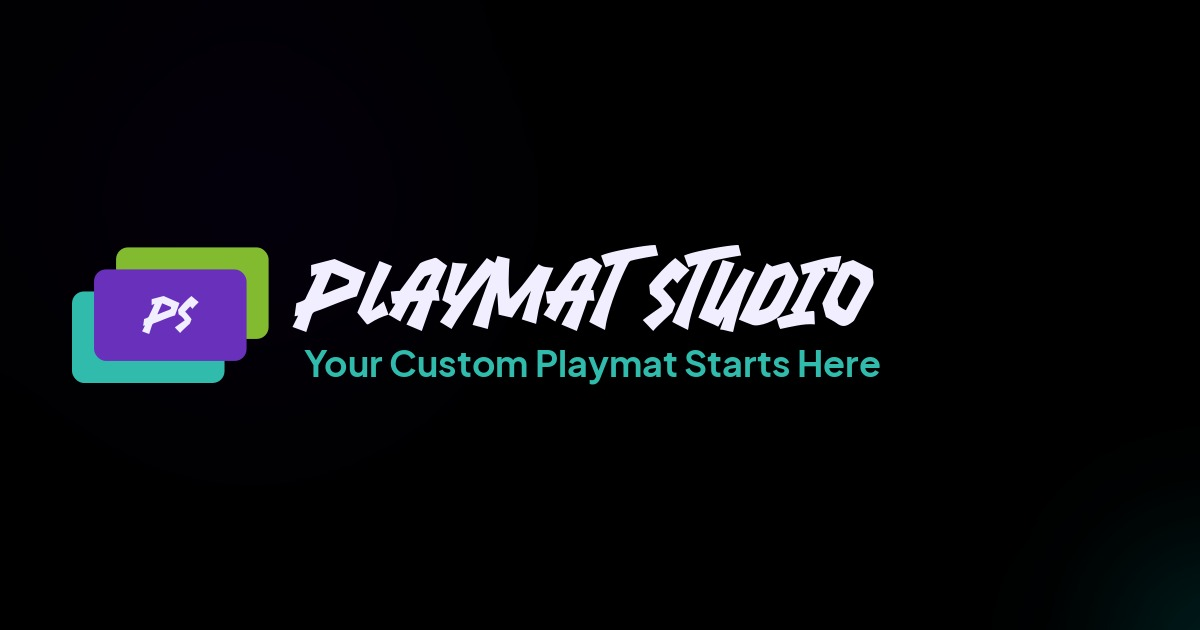
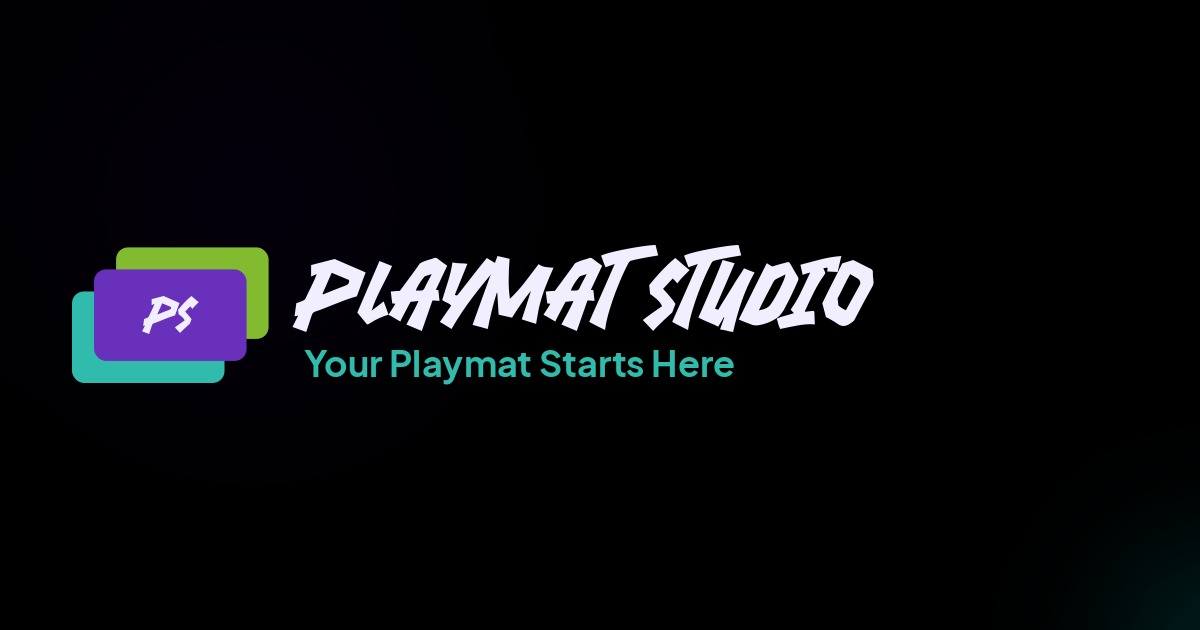
Update slogan to "Your Playmat Starts Here" in hero and og-preview
https://claude.ai/code/session_01K7Nx38XyDJbewPShFeLc3w

Changed region(s): [[0.3083, 0.5429, 0.74, 0.6032]]

diff --git a/index.html b/index.html
@@ -6,7 +6,7 @@
 -->
 <html lang="en">
 	<head>
-		<title>Playmat Studio &mdash; Your Custom Playmat Starts Here</title>
+		<title>Playmat Studio &mdash; Your Playmat Starts Here</title>
 		<meta charset="utf-8" />
 		<meta http-equiv="Cache-Control" content="no-cache, no-store, must-revalidate" />
 		<meta http-equiv="Pragma" content="no-cache" />
@@ -20,11 +20,11 @@
 		<!-- Open Graph / Twitter Card -->
 		<meta property="og:type" content="website" />
 		<meta property="og:url" content="https://playmatstudio.com/" />
-		<meta property="og:title" content="Playmat Studio &mdash; Your Custom Playmat Starts Here" />
+		<meta property="og:title" content="Playmat Studio &mdash; Your Playmat Starts Here" />
 		<meta property="og:description" content="Free browser-based tools to design, enhance, and download print-ready game mat artwork. No installs. No account. No cost." />
 		<meta property="og:image" content="https://playmatstudio.com/images/og-preview.jpg" />
 		<meta name="twitter:card" content="summary_large_image" />
-		<meta name="twitter:title" content="Playmat Studio &mdash; Your Custom Playmat Starts Here" />
+		<meta name="twitter:title" content="Playmat Studio &mdash; Your Playmat Starts Here" />
 		<meta name="twitter:description" content="Free browser-based tools to design, enhance, and download print-ready game mat artwork. No installs. No account. No cost." />
 		<meta name="twitter:image" content="https://playmatstudio.com/images/og-preview.jpg" />
 
@@ -97,7 +97,7 @@
 
 					<!-- Hero -->
 					<header>
-						<h1>Your Custom Playmat Starts Here</h1>
+						<h1>Your Playmat Starts Here</h1>
 						<p>Free browser-based tools to prepare your artwork for professional printing.<br />
 						No installs. No account. No cost. Everything runs in your browser.</p>
 						<ul class="actions">
